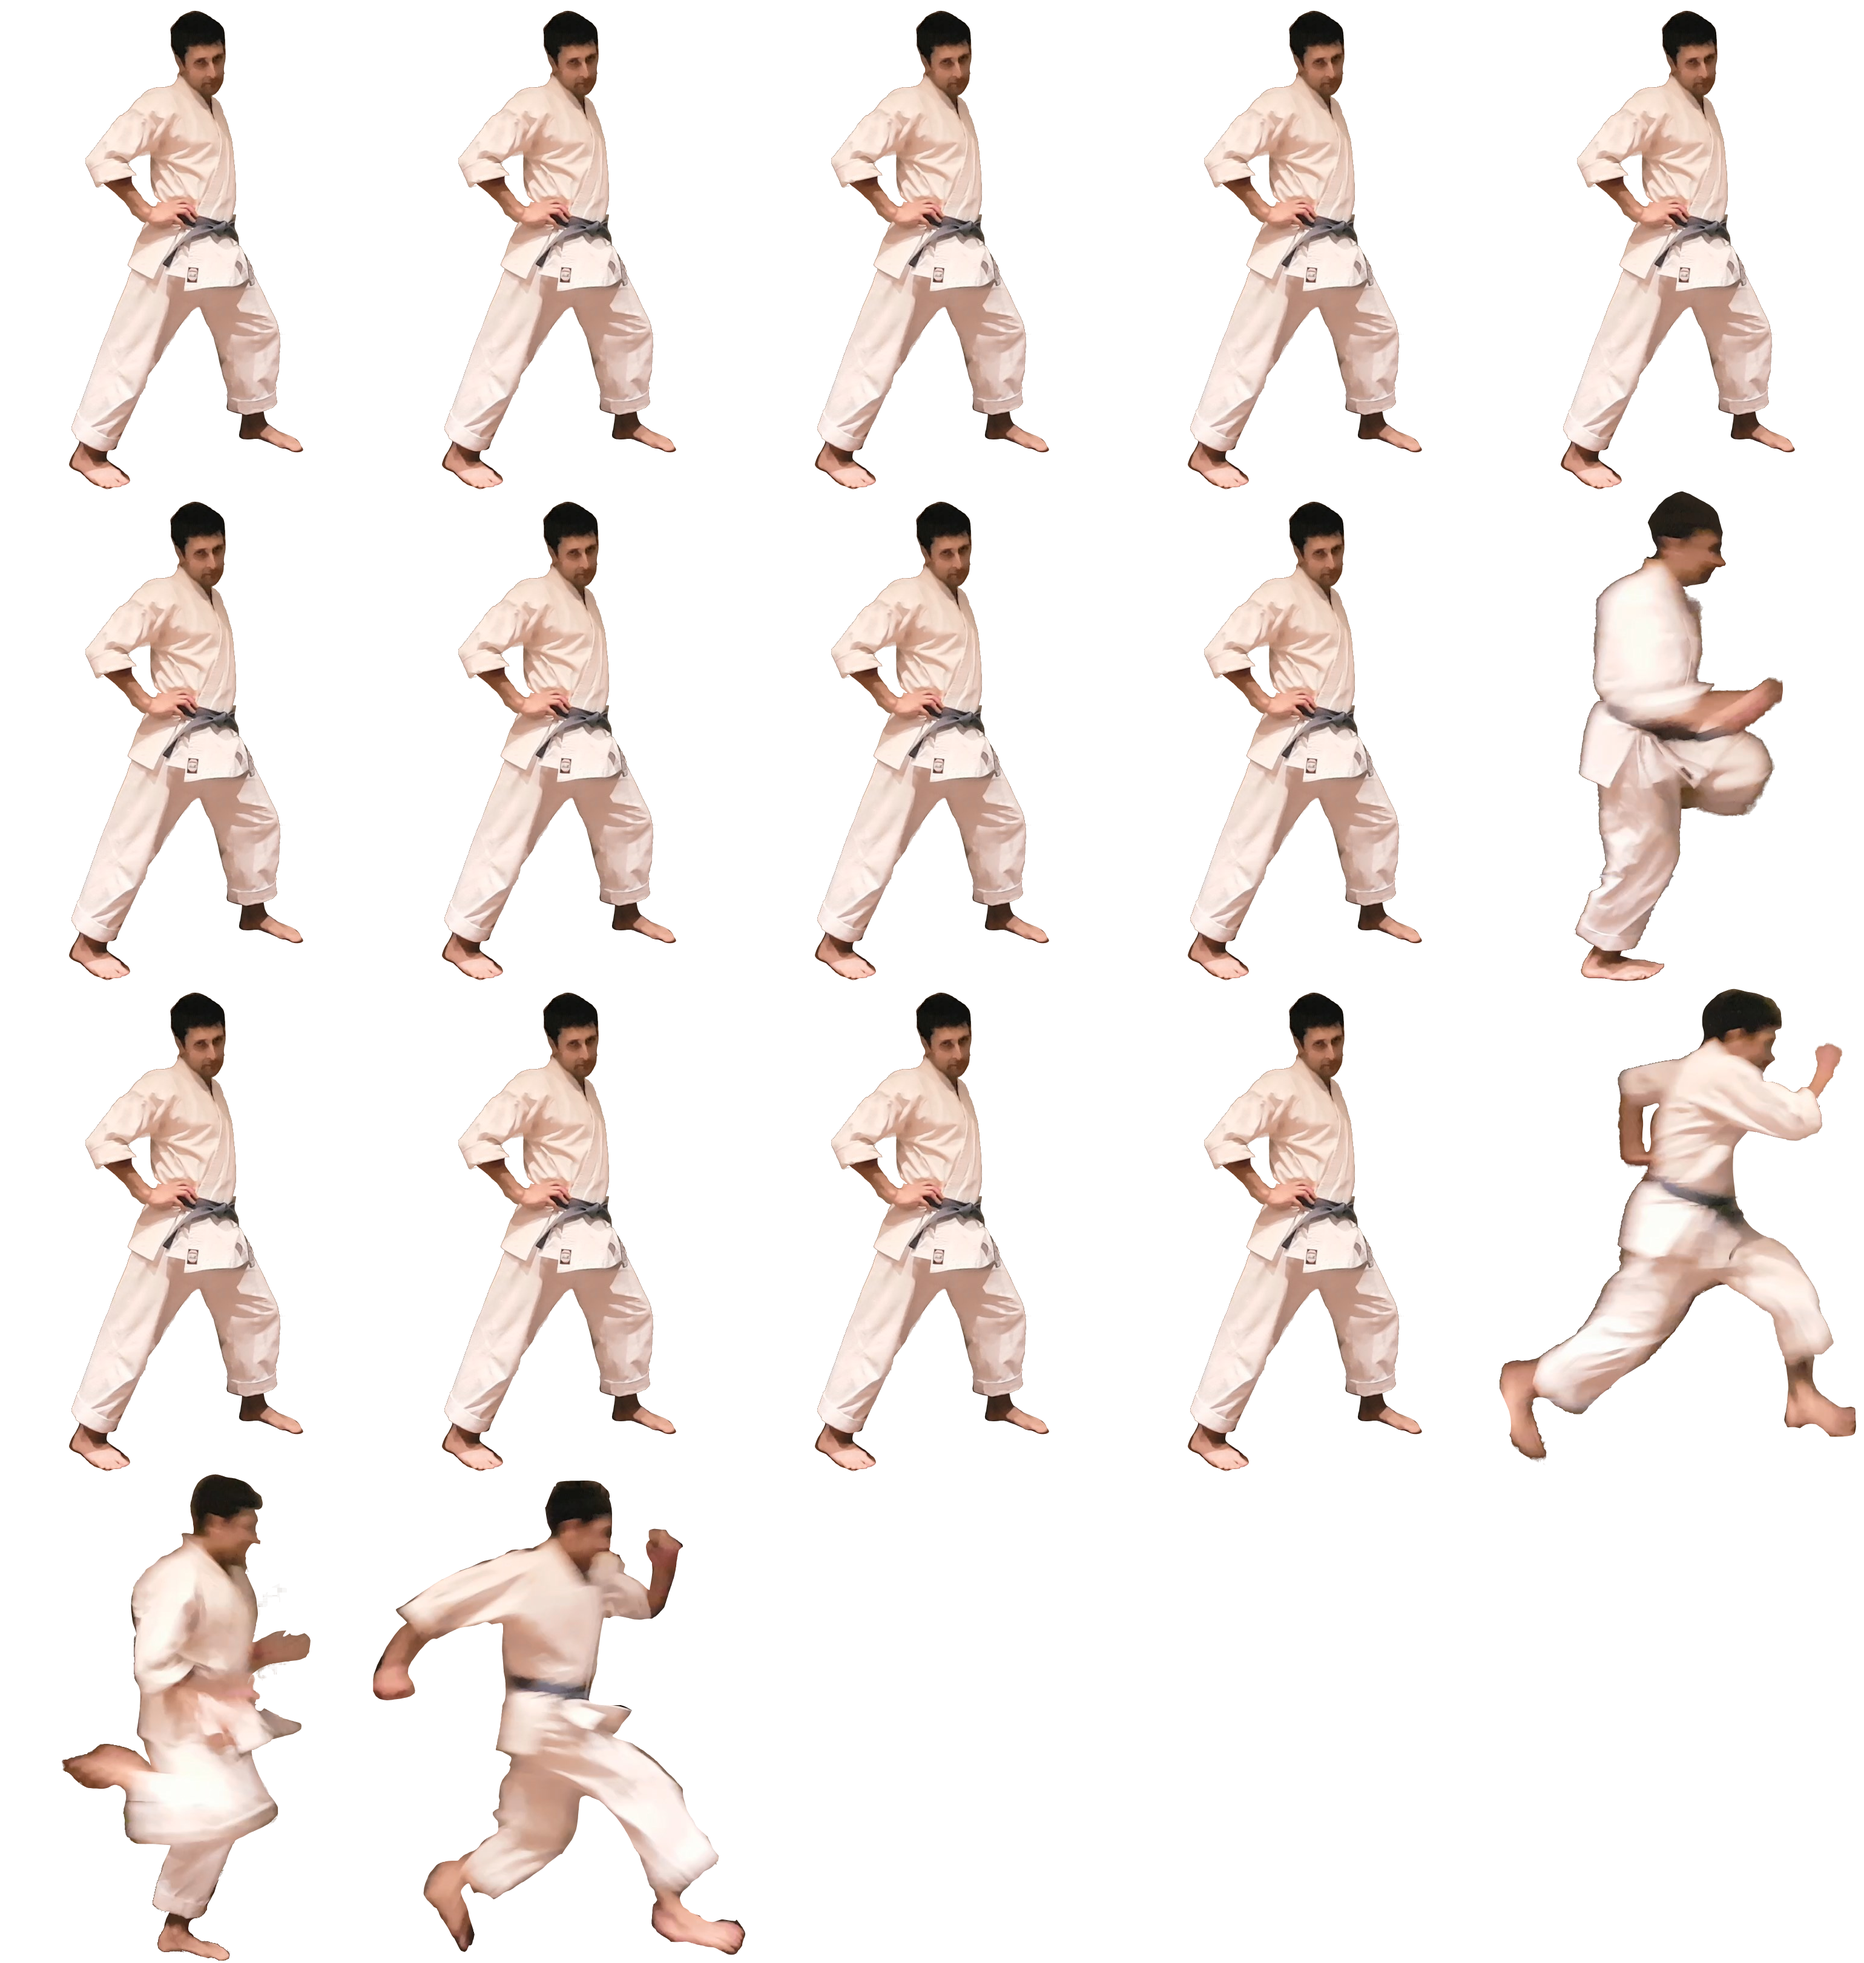
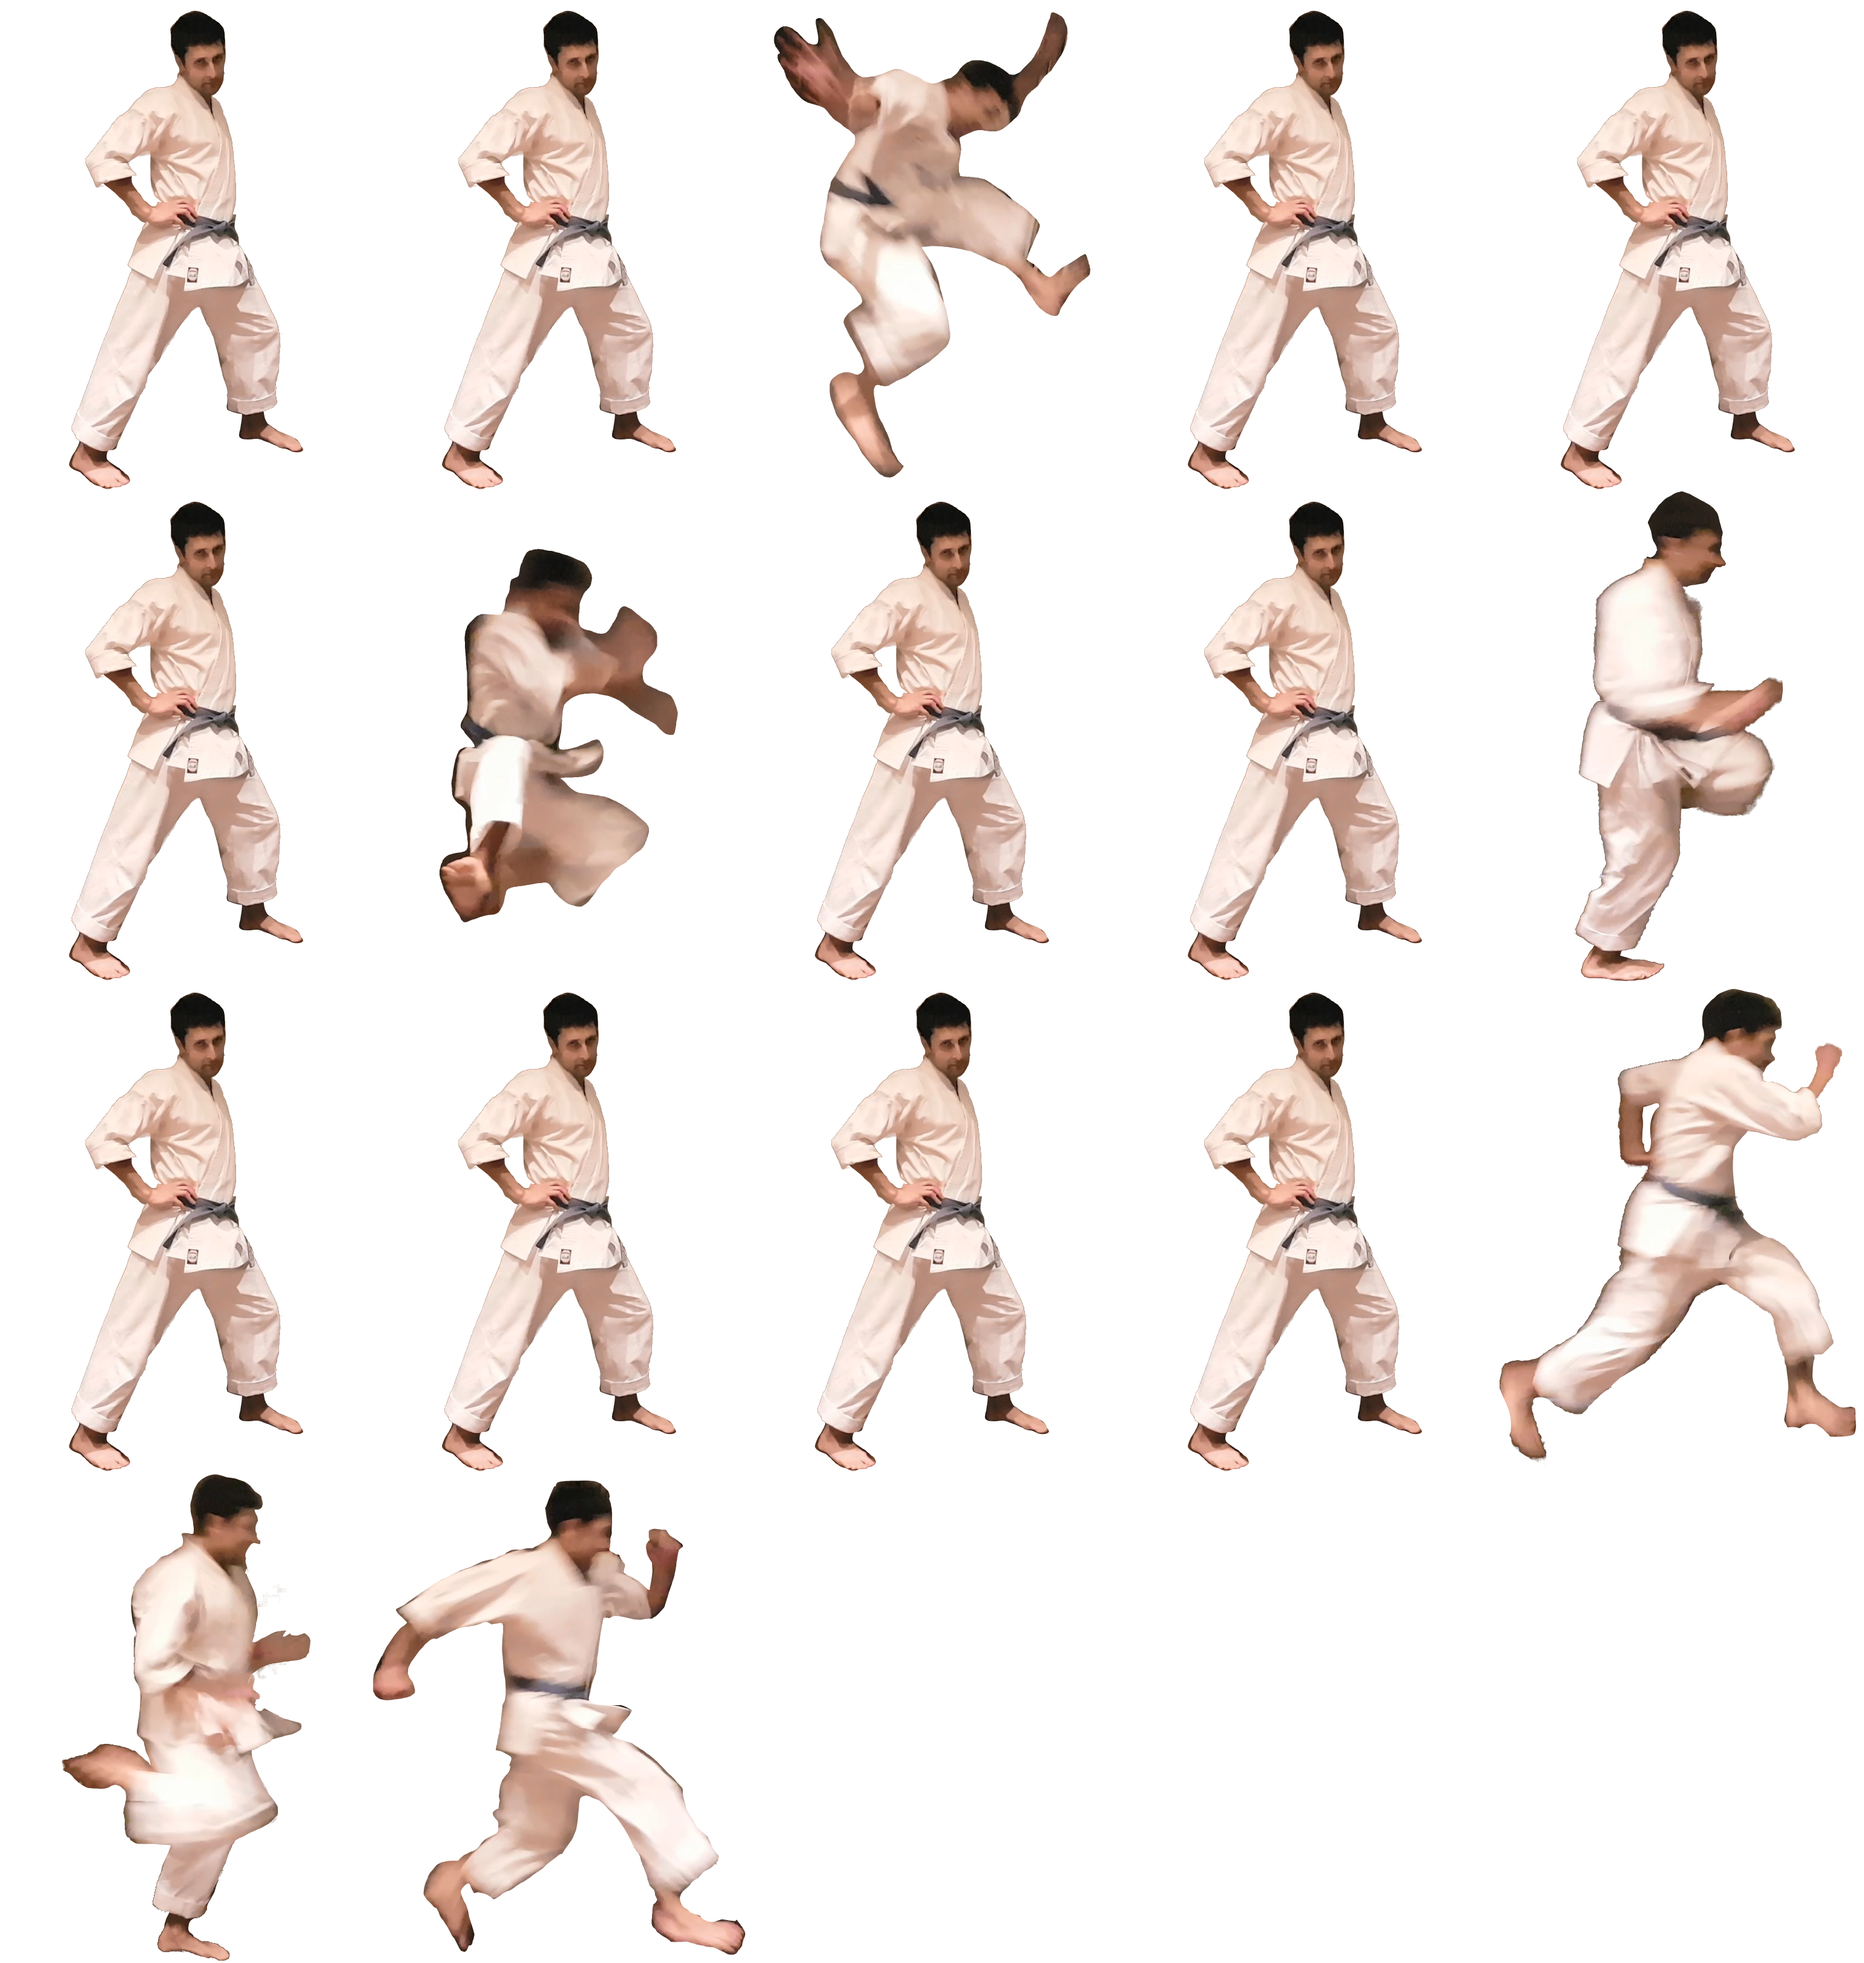
wip - human sprites

Changed region(s): [[0.4053, 0.0, 0.5924, 0.2492], [0.2183, 0.2492, 0.3741, 0.4983], [0.5612, 0.0, 0.5924, 0.0311]]

diff --git a/src/app/jt-game/my-game.ts b/src/app/jt-game/my-game.ts
@@ -8,6 +8,7 @@ export module AcousterGame {
   export class ScrollerPlayerConfig {
     assetSprite: string;
     assetChunks: string;
+    assetChunkKeys: string[];
     scaleFactor: number;
     bodyW: number;
     bodyH: number;
@@ -61,7 +62,7 @@ export module AcousterGame {
       // player chunks
       // TODO: 2913bc3d: move particle emitter creation to commons
       this.chunks = game.add.emitter(0, 0, 20);
-      this.chunks.makeParticles(config.assetChunks, ['chunk1', 'chunk2', 'chunk3', 'chunk4', 'chunk5', 'chunk6', 'chunk7', 'chunk8', 'chunk9', 'chunk10'], 20, false, false);
+      this.chunks.makeParticles(config.assetChunks, config.assetChunkKeys, 20, false, false);
       const angleRange = 40;
       this.chunks.setAngle(-90 - angleRange/2, -90 + angleRange/2, 2000, 3000);
       this.chunks.scale = new Phaser.Point(0.25, 0.25); // NOTE: 2913bc3d: scale seems to affect the speeds
@@ -194,20 +195,32 @@ export module AcousterGame {
       game.load.spritesheet('explosion', AssetUrls.explosion, 192, 192, 20);
       game.load.atlasJSONHash(
         'player1',
-        // AssetUrls.playerMikhail.img,
-        // AssetUrls.playerMikhail.json,
-        AssetUrls.debugPlayerSprite.img,
-        AssetUrls.debugPlayerSprite.json,
+        AssetUrls.playerMikhail.img, // CODE: dab4d273: code for real human sprites
+        AssetUrls.playerMikhail.json,
+        // AssetUrls.debugPlayerSprite.img,
+        // AssetUrls.debugPlayerSprite.json,
         Phaser.Loader.TEXTURE_ATLAS_JSON_HASH);
       game.load.atlasJSONHash(
         'player2',
-        AssetUrls.debugPlayerSprite.imgBlue,
-        AssetUrls.debugPlayerSprite.json,
+        AssetUrls.playerAdriana.img, // CODE: dab4d273: code for real human sprites
+        AssetUrls.playerAdriana.json,
+        // AssetUrls.debugPlayerSprite.imgBlue,
+        // AssetUrls.debugPlayerSprite.json,
+        Phaser.Loader.TEXTURE_ATLAS_JSON_HASH);
+      // game.load.atlasJSONHash(
+      //   'chunks-debug-sprite',
+      //   AssetUrls.debugPlayerSprite.chunkImg,
+      //   AssetUrls.debugPlayerSprite.chunkJson,
+      //   Phaser.Loader.TEXTURE_ATLAS_JSON_HASH);
+      game.load.atlasJSONHash(
+        'chunks-adriana',
+        AssetUrls.playerAdriana.chunkImg,
+        AssetUrls.playerAdriana.chunkJson,
         Phaser.Loader.TEXTURE_ATLAS_JSON_HASH);
       game.load.atlasJSONHash(
-        'player1-chunk',
-        AssetUrls.debugPlayerSpriteChunk.img,
-        AssetUrls.debugPlayerSpriteChunk.json,
+        'chunks-mikhail',
+        AssetUrls.playerMikhail.chunkImg,
+        AssetUrls.playerMikhail.chunkJson,
         Phaser.Loader.TEXTURE_ATLAS_JSON_HASH);
       game.load.atlasJSONHash(
         'dragon',
@@ -215,7 +228,7 @@ export module AcousterGame {
         AssetUrls.dragon.json800,
         Phaser.Loader.TEXTURE_ATLAS_JSON_HASH);
       game.load.atlasJSONHash(
-        'meat-steak-chunk',
+        'chunks-meat-steak',
         AssetUrls.meatSteaks.img,
         AssetUrls.meatSteaks.json,
         Phaser.Loader.TEXTURE_ATLAS_JSON_HASH);
@@ -279,19 +292,27 @@ export module AcousterGame {
       // generic meat chunks
       // TODO: 2913bc3d: move particle emitter creation to commons
       this.chunksGenericMeat = game.add.emitter(0, 0, 40);
-      this.chunksGenericMeat.makeParticles('meat-steak-chunk', _.range(1, 13).map(x => x + ''), 40, false, false);
+      this.chunksGenericMeat.makeParticles('chunks-meat-steak', _.range(1, 13).map(x => x + ''), 40, false, false);
       const angleRange = 40;
       this.chunksGenericMeat.setAngle(-90 - angleRange/2, -90 + angleRange/2, 500, 700); // NOTE: 2913bc3d: scale seems to affect the speeds
       this.chunksGenericMeat.gravity = new Phaser.Point(0, 700);
 
+
+      
+      // this.chunks.makeParticles(config.assetChunks, , 20, false, false); // CODE for satlas-debug-sprite-chunk
       let player1 = new ScrollerPlayer(game, this.bullets, <ScrollerPlayerConfig> {
         assetSprite: 'player1',
-        assetChunks: 'player1-chunk',
-        scaleFactor: 0.2,
-        // scaleFactor: 0.12, // NOTE: for sprite-mikhail
-        bodyW: 200, // NOTE: size of each frame in spritesheet: 484 x 534
-        bodyH: 500,
-        bodyHSquat: 220,
+        assetChunks: 'chunks-mikhail',
+        // assetChunkKeys: ['chunk1', 'chunk2', 'chunk3', 'chunk4', 'chunk5', 'chunk6', 'chunk7', 'chunk8', 'chunk9', 'chunk10'], // CODE: dab4d273: code for debug sprite
+        assetChunkKeys: ['chunk1', 'chunk2', 'chunk3', 'chunk4', 'chunk5', 'chunk6', 'chunk7', 'meat1', 'meat2', 'meat3', 'meat4', 'meat5', 'meat6', 'meat7', 'meat8', 'meat9'],
+        scaleFactor: 0.12, // CODE: dab4d273: code for real human sprites
+        // scaleFactor: 0.2,
+        // bodyW: 200, // NOTE: size of each frame in spritesheet: 484 x 534
+        // bodyH: 500,
+        // bodyHSquat: 220,
+        bodyW: 250, // CODE: dab4d273: code for real human sprites
+        bodyH: 700,
+        bodyHSquat: 320,
         gravity: playerGravity,
         velocityX: playerVelocityX,
         velocityJump: playerVelocityJump,
@@ -308,11 +329,17 @@ export module AcousterGame {
 
       let player2 = new ScrollerPlayer(game, this.bullets, <ScrollerPlayerConfig> {
         assetSprite: 'player2',
-        assetChunks: 'player1-chunk',
-        scaleFactor: 0.2,
-        bodyW: 200, // NOTE: size of each frame in spritesheet: 484 x 534
-        bodyH: 500,
-        bodyHSquat: 220,
+        assetChunks: 'chunks-adriana',
+        // assetChunkKeys: ['chunk1', 'chunk2', 'chunk3', 'chunk4', 'chunk5', 'chunk6', 'chunk7', 'chunk8', 'chunk9', 'chunk10'], // CODE: dab4d273: code for debug sprite
+        assetChunkKeys: ['ad-chunk1', 'ad-chunk2', 'ad-chunk3', 'ad-chunk4', 'ad-chunk5', 'ad-chunk6', 'ad-chunk7-head2', 'ad-chunk8', 'meat1', 'meat2', 'meat3', 'meat4', 'meat5', 'meat6', 'meat7', 'meat8', 'meat9'],
+        scaleFactor: 0.12, // CODE: dab4d273: code for real human sprites
+        // scaleFactor: 0.2,
+        // bodyW: 200, // NOTE: size of each frame in spritesheet: 484 x 534
+        // bodyH: 500,
+        // bodyHSquat: 220,
+        bodyW: 250, // CODE: dab4d273: code for real human sprites
+        bodyH: 700,
+        bodyHSquat: 320,
         gravity: playerGravity,
         velocityX: playerVelocityX,
         velocityJump: playerVelocityJump,
@@ -352,7 +379,7 @@ export module AcousterGame {
       sprite.animations.play('attack');
       sprite.anchor.set(0.5, 1);
       sprite.scale.set(0.6, 0.6);
-      sprite.health = 10;
+      sprite.health = 1;
       // TODO: 4a3e03b6: dragon TMP!!!!
       const bw = 200;
       const bh = 200;
@@ -413,7 +440,6 @@ export module AcousterGame {
     }
     
     render(game: Phaser.Game) {
-      // game.debug.bodyInfo(this.player1, 32, 32);
       // this.playerz.forEach(player => {
       //   game.debug.body(player.sprite);
       // });

diff --git a/src/app/jt-game/asset-urls.ts b/src/app/jt-game/asset-urls.ts
@@ -12,14 +12,20 @@ export const AssetUrls = {
     imgBlue: 'assets/img/spritesheets/ss-debug-player-blue.png',
     imgGreen: 'assets/img/spritesheets/ss-debug-player-green.png',
     json: 'assets/img/spritesheets/ss-debug-player.json',
+    chunkImg: 'assets/img/atlas/satlas-debug-sprite-chunk.png',
+    chunkJson: 'assets/img/atlas/satlas-debug-sprite-chunk.json',
   },
   playerMikhail: {
     img: 'assets/img/atlas/satlas-mikhail.png',
     json: 'assets/img/atlas/satlas-mikhail.json',
+    chunkImg: 'assets/img/atlas/satlas-mikhail-chunk.png',
+    chunkJson: 'assets/img/atlas/satlas-mikhail-chunk.json',
   },
-  debugPlayerSpriteChunk: {
-    img: 'assets/img/atlas/satlas-debug-sprite-chunk.png',
-    json: 'assets/img/atlas/satlas-debug-sprite-chunk.json',
+  playerAdriana: {
+    img: 'assets/img/atlas/satlas-adriana.png',
+    json: 'assets/img/atlas/satlas-adriana.json',
+    chunkImg: 'assets/img/atlas/satlas-adriana-chunk.png',
+    chunkJson: 'assets/img/atlas/satlas-adriana-chunk.json',
   },
   dragon: {
     img: 'assets/img/spritesheets/ss-dragon.png',
